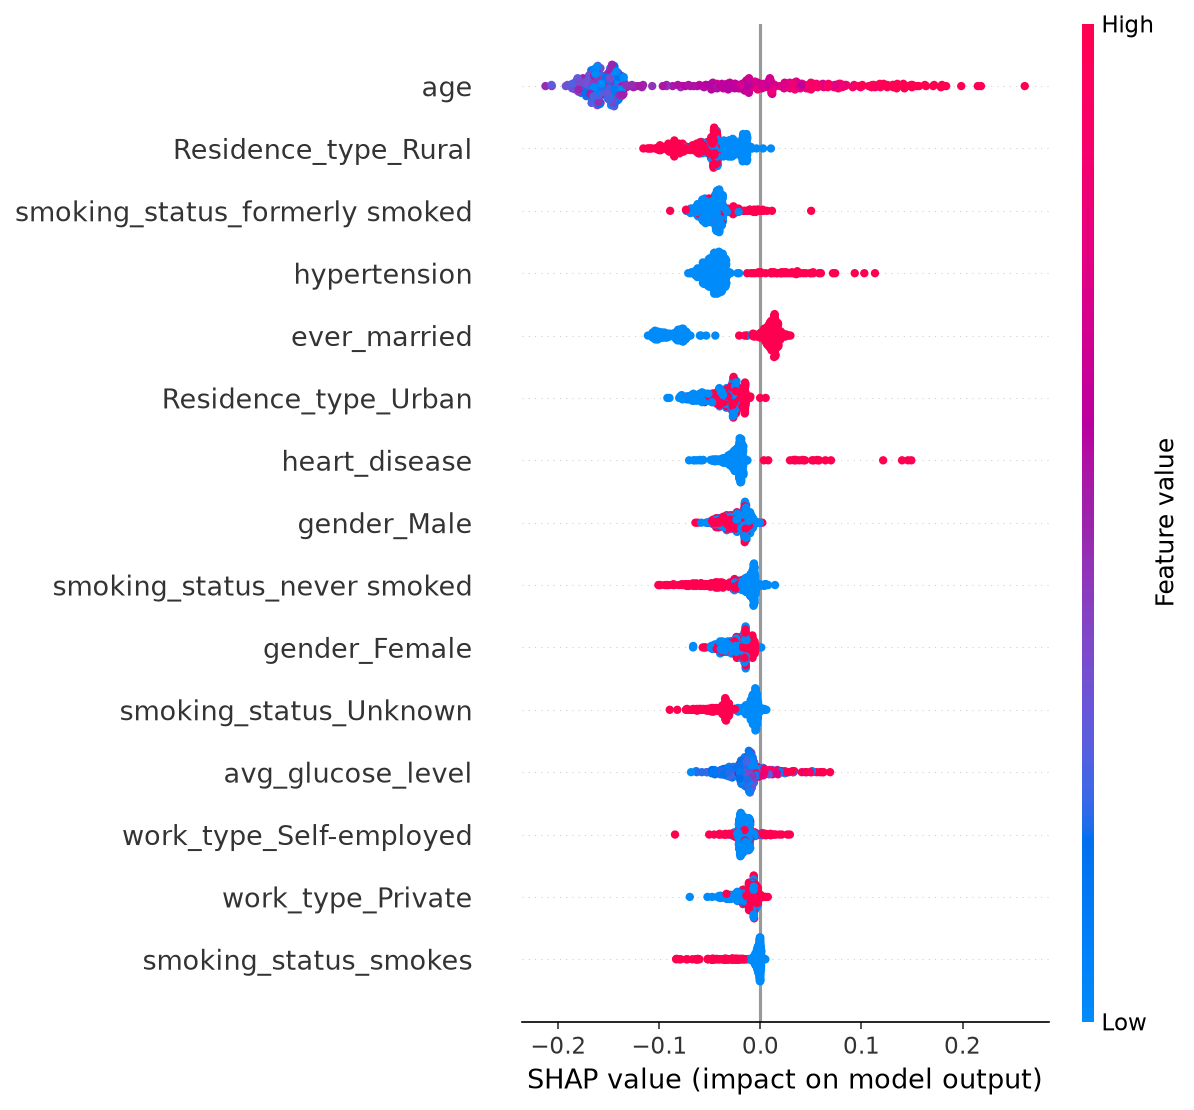
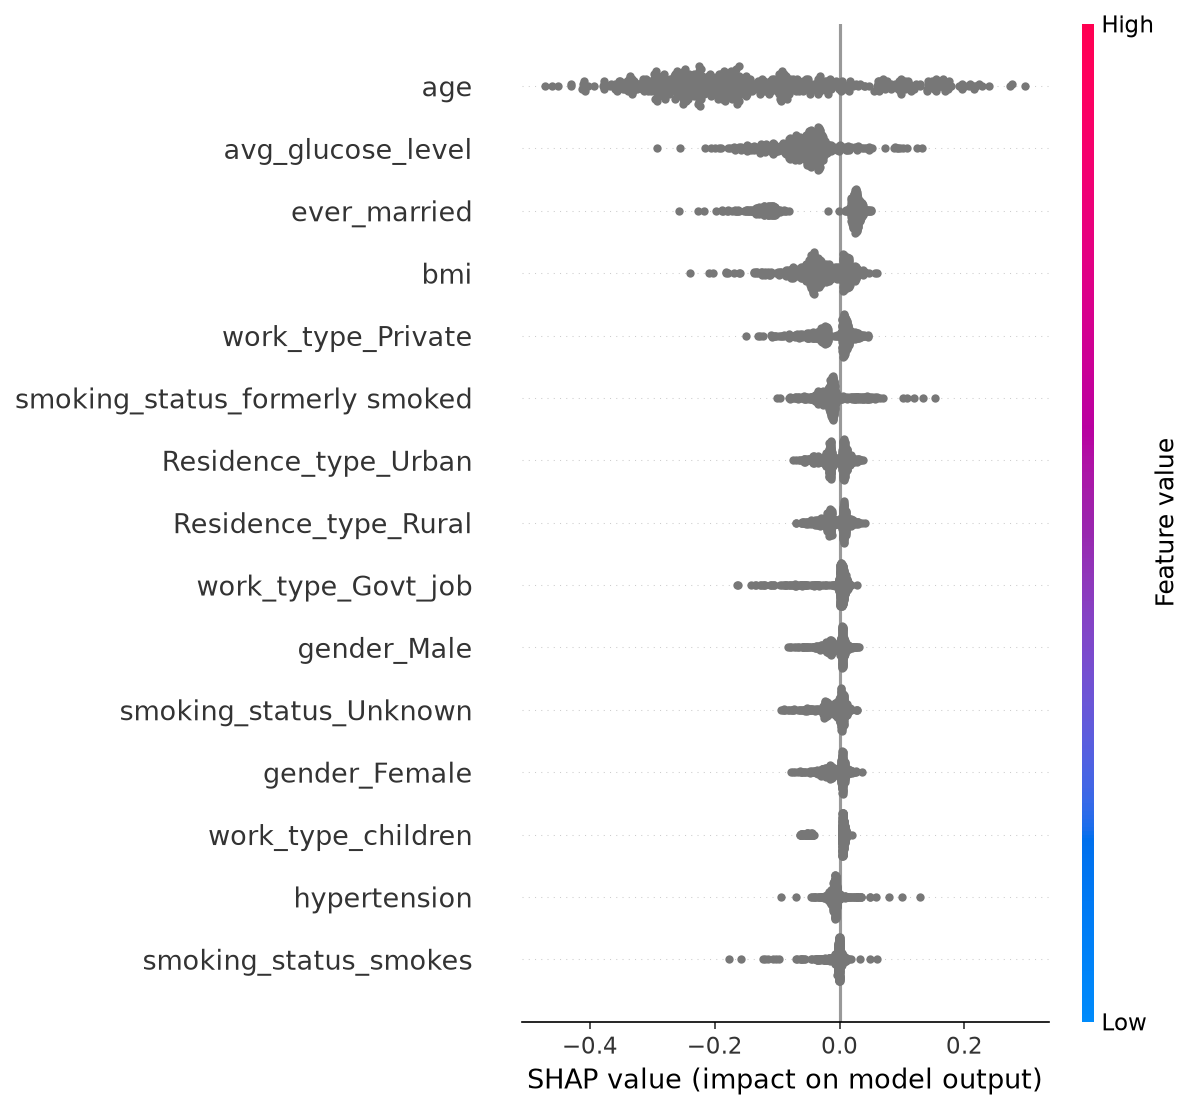
Address Claude review on PR #3: lint, n_boot=200, knn_neighbors, fit_with_groups helper; regenerate reports with SMOTENC + grouped stacking
Code fixes by Codex; lint one-liner, training run and README refresh by Claude.

diff --git a/src/evaluation.py b/src/evaluation.py
@@ -26,8 +26,8 @@ from sklearn.metrics import (
     roc_auc_score,
 )
 
-from src.models import PatientGroupedStackingClassifier
 from src import config
+from src.models import fit_with_groups
 
 
 # --------------------------------------------------------------------------- #
@@ -227,11 +227,8 @@ def cross_validate_grouped(
                 X_tr, y_tr, groups=groups.iloc[tr]
             ):
                 inner_model = clone(pipeline)
-                inner_model.fit(
-                    X_tr.iloc[inner_tr], y_tr.iloc[inner_tr],
-                    **({"groups": groups_tr.iloc[inner_tr]}
-                       if isinstance(inner_model, PatientGroupedStackingClassifier) else {}),
-                )
+                fit_with_groups(inner_model, X_tr.iloc[inner_tr], y_tr.iloc[inner_tr],
+                                groups_tr.iloc[inner_tr])
                 oof_proba[inner_va] = predict_proba_positive(inner_model, X_tr.iloc[inner_va])
             if min_recall is not None:
                 fold_threshold = threshold_for_min_recall(y_tr, oof_proba, min_recall=min_recall)
@@ -239,9 +236,7 @@ def cross_validate_grouped(
                 fold_threshold, _ = find_best_threshold(y_tr, oof_proba, beta=beta)
 
         model = clone(pipeline)
-        model.fit(X_tr, y_tr, **(
-            {"groups": groups_tr} if isinstance(model, PatientGroupedStackingClassifier) else {}
-        ))
+        fit_with_groups(model, X_tr, y_tr, groups_tr)
 
         metrics = compute_metrics(
             y_va, predict_proba_positive(model, X_va), threshold=fold_threshold, beta=beta

diff --git a/src/preprocessing.py b/src/preprocessing.py
@@ -263,6 +263,7 @@ def make_full_pipeline(
     smote_strategy: float | str = "auto",
     smote_k_neighbors: int = 5,
     numeric_imputer: str = "knn",
+    knn_neighbors: int = 5,
     scale: bool = True,
     random_state: int = config.RANDOM_STATE,
 ) -> ImbPipeline:
@@ -273,7 +274,8 @@ def make_full_pipeline(
     `fit_resample` is only ever called on the train portion of each fold.
     """
     steps: list[tuple[str, object]] = [
-        ("preprocessor", make_preprocessor(numeric_imputer=numeric_imputer, scale=scale))
+        ("preprocessor", make_preprocessor(numeric_imputer=numeric_imputer,
+                                            knn_neighbors=knn_neighbors, scale=scale))
     ]
     if use_smote:
         # Impute raw categories before resampling; one-hot encoding follows it.
@@ -281,7 +283,7 @@ def make_full_pipeline(
                        + config.NOMINAL_FEATURES)
         preparation = ColumnTransformer(
             [("num", SimpleImputer(strategy="median") if numeric_imputer == "median"
-              else KNNImputer(weights="distance"), config.NUMERIC_FEATURES),
+              else KNNImputer(n_neighbors=knn_neighbors, weights="distance"), config.NUMERIC_FEATURES),
              ("cat", SimpleImputer(strategy="most_frequent"), categorical)],
             verbose_feature_names_out=False,
         ).set_output(transform="pandas")

diff --git a/src/models.py b/src/models.py
@@ -22,14 +22,13 @@ from collections.abc import Callable
 from typing import Any
 
 import numpy as np
-from sklearn.model_selection import StratifiedGroupKFold
-
 from sklearn.ensemble import (
     GradientBoostingClassifier,
     RandomForestClassifier,
     StackingClassifier,
 )
 from sklearn.linear_model import LogisticRegression
+from sklearn.model_selection import StratifiedGroupKFold
 from sklearn.naive_bayes import GaussianNB
 from sklearn.neighbors import KNeighborsClassifier
 from sklearn.svm import SVC
@@ -167,6 +166,13 @@ class PatientGroupedStackingClassifier(StackingClassifier):
             self.cv = original_cv
         self.inner_splits_ = splits
         return result
+
+
+def fit_with_groups(model, X, y, groups):
+    """Fit an estimator, passing patient groups to grouped stacking only."""
+    if isinstance(model, PatientGroupedStackingClassifier):
+        return model.fit(X, y, groups=groups)
+    return model.fit(X, y)
 
 
 def build_stacking_ensemble(

diff --git a/tests/test_explainability.py b/tests/test_explainability.py
@@ -31,13 +31,13 @@ def fitted_tree(synthetic_df):
 
 class TestOddsRatios:
     def test_odds_ratio_equals_exp_coefficient(self, fitted_linear):
-        pipeline, X, _y = fitted_linear
+        pipeline, _X, _y = fitted_linear
         table = explainability.logistic_odds_ratios(pipeline)
         np.testing.assert_allclose(table["odds_ratio"], np.exp(table["coefficient"]), rtol=1e-9)
 
     def test_bootstrap_intervals_are_reproducible(self, fitted_linear):
         pipeline, X, y = fitted_linear
-        kwargs = dict(groups=X.index, n_boot=8, random_state=12)
+        kwargs = {"groups": X.index, "n_boot": 8, "random_state": 12}
         table = explainability.logistic_odds_ratios(pipeline, X, y, **kwargs)
         repeated = explainability.logistic_odds_ratios(pipeline, X, y, **kwargs)
         np.testing.assert_allclose(table["or_ci_lower"], repeated["or_ci_lower"])

diff --git a/src/train.py b/src/train.py
@@ -78,12 +78,12 @@ def run_experiment(
                 estimator, use_smote=use_smote, scale=scale
             )
 
-        pipeline.fit(X_train, y_train, **(
-            {"groups": split.train[config.ID_COLUMN]} if name == "stacking" else {}
-        ))
+        models.fit_with_groups(pipeline, X_train, y_train, split.train[config.ID_COLUMN])
 
         # Verify: transforming the hold-out set does not alter the fitted state.
-        fitted_pipelines = pipeline.estimators_ if name == "stacking" else [pipeline]
+        fitted_pipelines = (pipeline.estimators_
+                            if isinstance(pipeline, models.PatientGroupedStackingClassifier)
+                            else [pipeline])
         for fitted in fitted_pipelines:
             preprocessing.assert_no_fit_on_holdout(fitted, X_test)
 

diff --git a/README.md b/README.md
@@ -91,23 +91,23 @@ asymmetric FN vs. FP risk analysis in medical diagnosis.
 ## Reference results (Test set, threshold tuned on Validation via F2)
 | Model | Recall | PR-AUC | F2 | Precision | ROC-AUC |
 |---|---|---|---|---|---|
-| Logistic Regression | 0.76 | 0.18 | 0.46 | 0.18 | 0.86 |
-| Random Forest | 0.70 | 0.21 | 0.42 | 0.16 | 0.84 |
-| Gradient Boosting | 0.70 | 0.21 | 0.41 | 0.15 | 0.84 |
-| Stacking Ensemble | 0.54 | 0.21 | 0.40 | 0.19 | 0.84 |
+| Logistic Regression | 0.76 | 0.19 | 0.35 | 0.11 | 0.83 |
+| Random Forest | 0.70 | 0.17 | 0.38 | 0.13 | 0.82 |
+| Gradient Boosting | 0.50 | 0.17 | 0.30 | 0.12 | 0.79 |
+| Stacking Ensemble | 0.88 | 0.17 | 0.36 | 0.11 | 0.83 |
 
 Grouped cross-validation (mean ± sample standard deviation across 5 folds):
 
 | Model | Recall | PR-AUC |
 |---|---|---|
-| Logistic Regression | 0.71 ± 0.07 | 0.20 ± 0.04 |
-| Random Forest | 0.71 ± 0.09 | 0.14 ± 0.01 |
-| Gradient Boosting | 0.65 ± 0.10 | 0.15 ± 0.02 |
-| Stacking Ensemble | 0.70 ± 0.11 | 0.16 ± 0.02 |
+| Logistic Regression | 0.74 ± 0.11 | 0.16 ± 0.03 |
+| Random Forest | 0.83 ± 0.06 | 0.14 ± 0.04 |
+| Gradient Boosting | 0.84 ± 0.11 | 0.15 ± 0.03 |
+| Stacking Ensemble | 0.74 ± 0.08 | 0.14 ± 0.03 |
 
 The test set has only ~50 positive cases, so test differences are noisy; CV is more reliable.
 
-Reproduce with: `make train` (see `reports/train_log.txt`).
+Reproduce with: `make train`. Pipeline: imputation -> SMOTENC -> encoding/scaling; patient-grouped stacking. Generated on Python 3.14 (scikit-learn 1.9.1, imbalanced-learn 0.14.2); exact numbers can differ slightly on the pinned CI environment.
 
 ## License
 Source code: MIT (see `LICENSE`). The Kaggle dataset follows Kaggle's own
